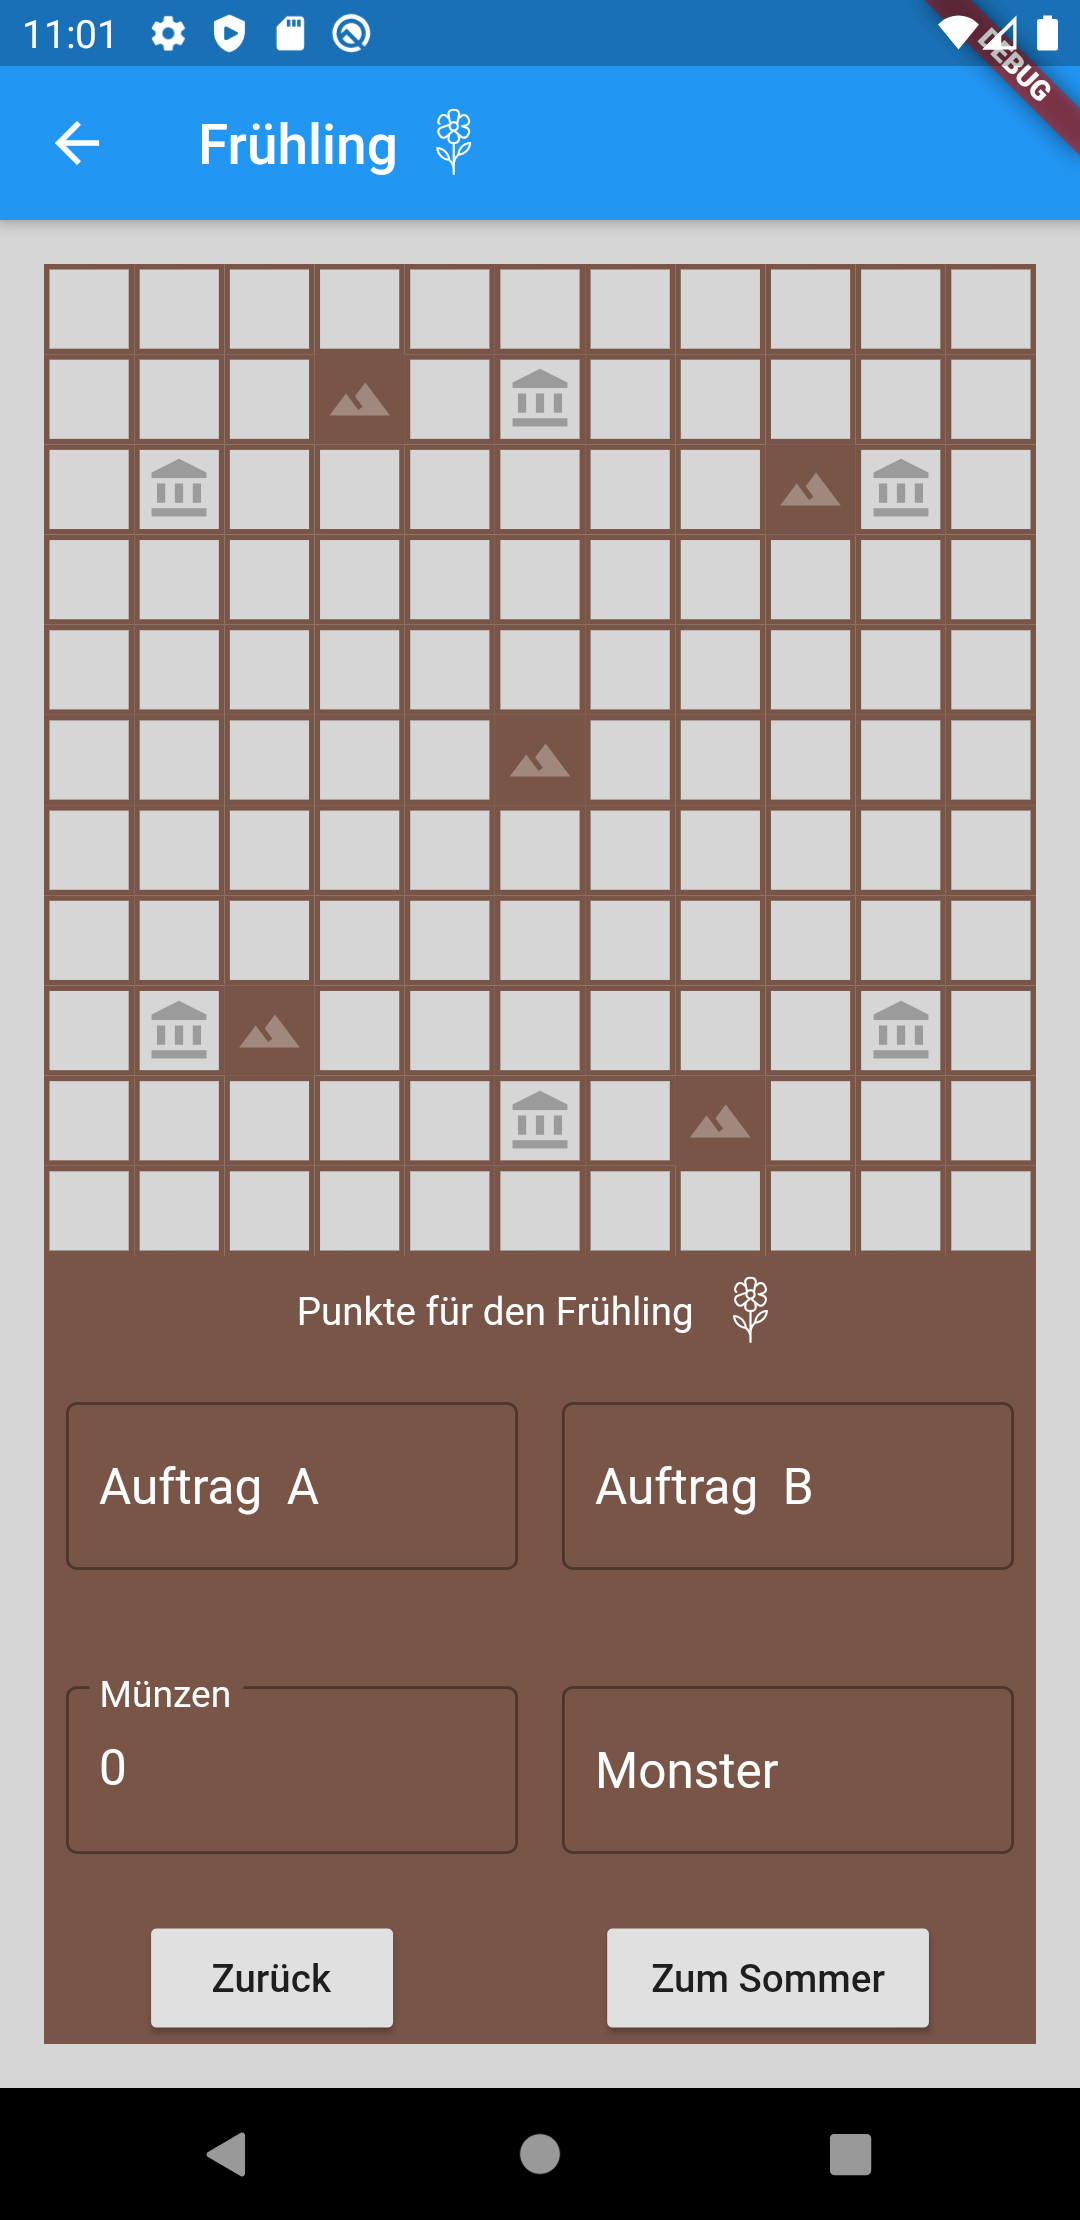
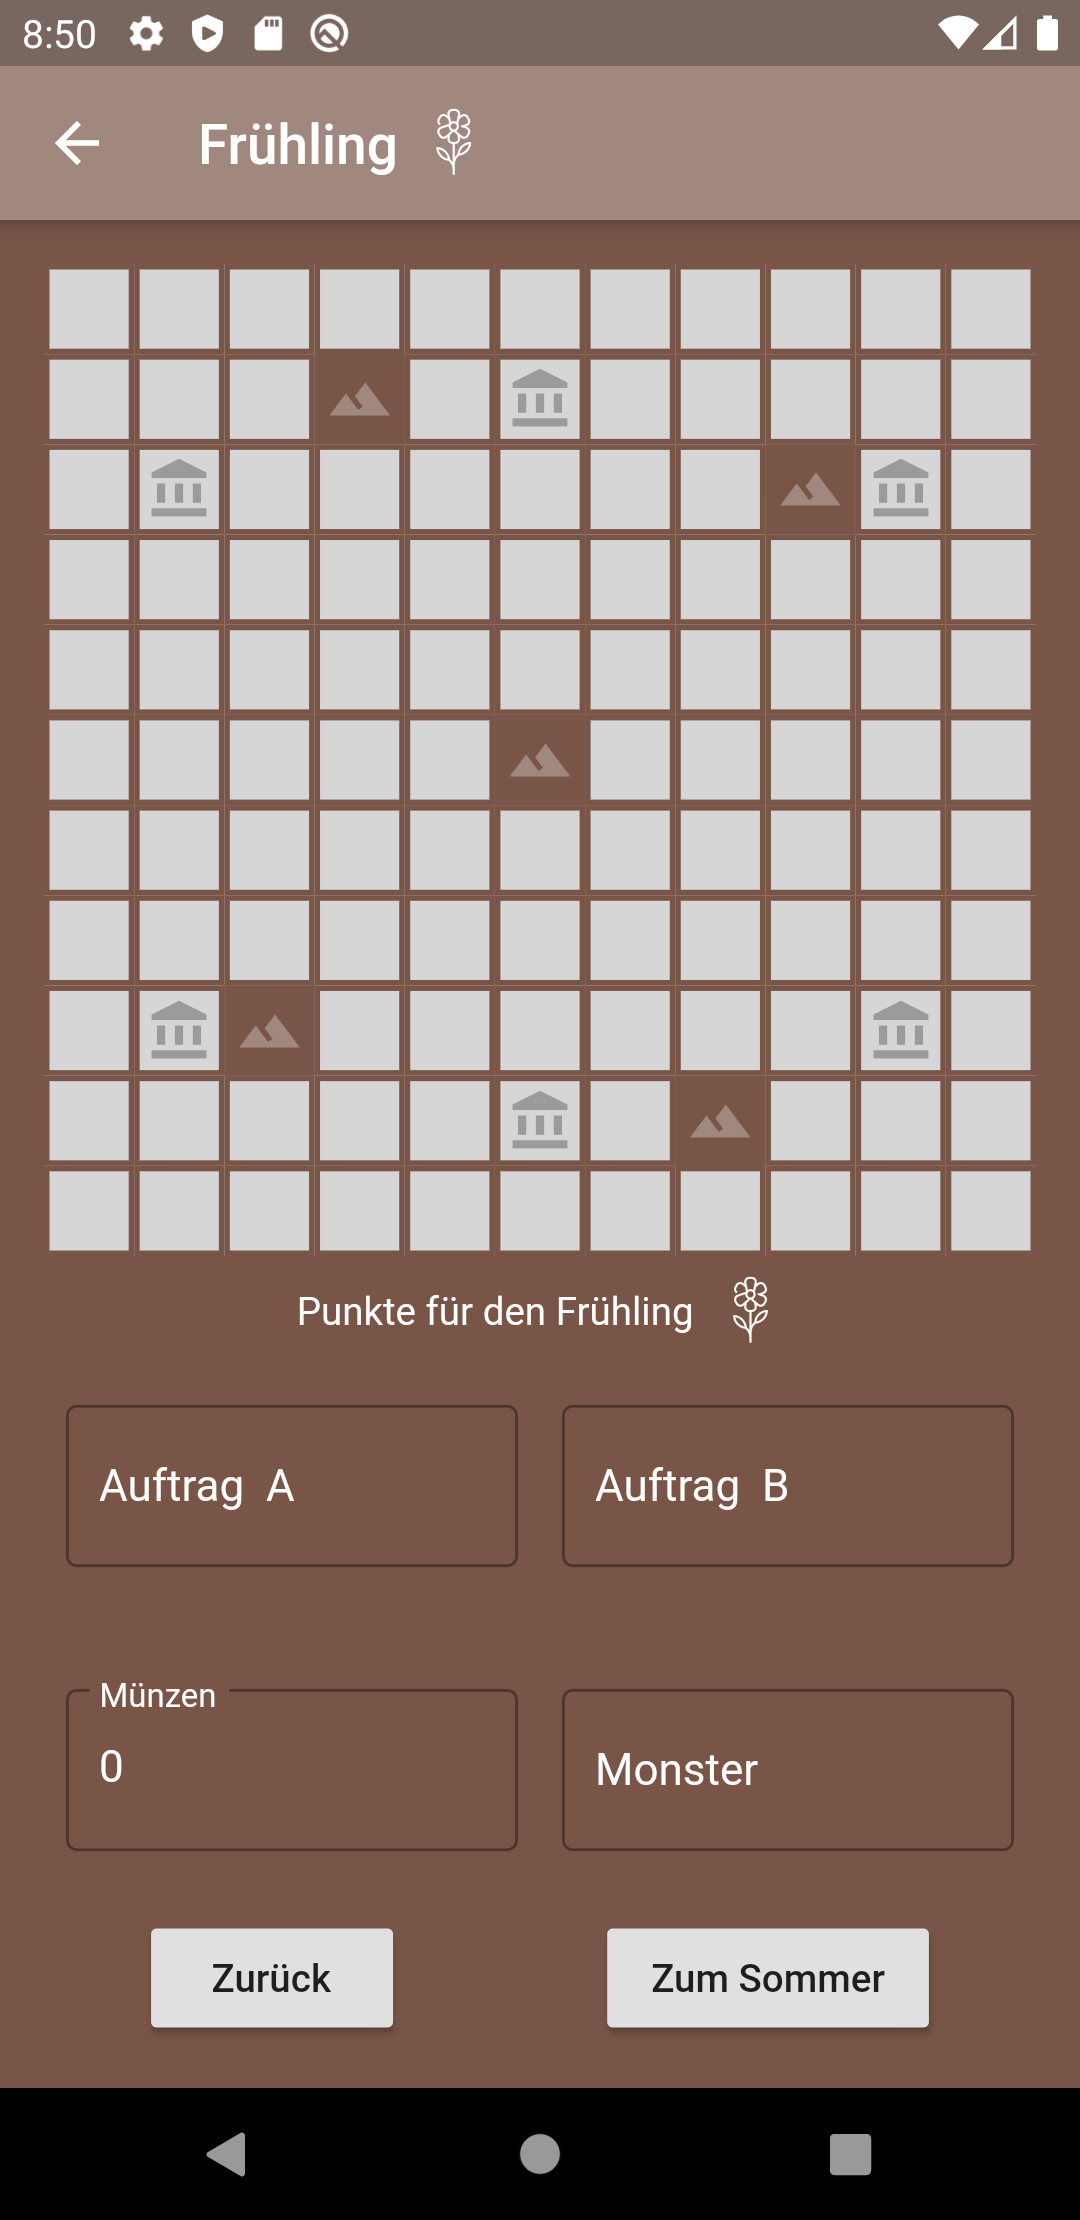
implement sum_up_page.dart finished

diff --git a/lib/gameboard/components/sum_up_row.dart b/lib/gameboard/components/sum_up_row.dart
@@ -1,0 +1,73 @@
+import 'package:flutter/material.dart';
+import 'package:flutter_bloc/flutter_bloc.dart';
+import 'package:kartograph_digital_note/custom_icons/custom_icons_icons.dart';
+import 'package:kartograph_digital_note/gameboard/cubit/cubit.dart';
+import 'package:kartograph_digital_note/gameboard/model/season_model.dart';
+
+class SumUpRow extends StatelessWidget {
+  final int index;
+
+  SumUpRow(this.index);
+
+  final textStyle = TextStyle(color: Colors.white);
+
+  @override
+  Widget build(BuildContext context) {
+    return Container(
+      child: Row(
+        mainAxisSize: MainAxisSize.max,
+        children: [
+          Expanded(
+            child: Column(
+              crossAxisAlignment: CrossAxisAlignment.start,
+              children: [
+                Text(
+                  '${activeCategories[index]['cat1']}: ${context.bloc<SumUpCubit>().state[index].cat1}',
+                  style: textStyle,
+                ),
+                SizedBox(height: 8),
+                Text(
+                  'Münzen: ${context.bloc<SumUpCubit>().state[index].coins}',
+                  style: textStyle,
+                ),
+              ],
+            ),
+          ),
+          Expanded(
+            child: Column(
+              crossAxisAlignment: CrossAxisAlignment.start,
+              children: [
+                Text(
+                  '${activeCategories[index]['cat2']}: ${context.bloc<SumUpCubit>().state[index].cat2}',
+                  style: textStyle,
+                ),
+                SizedBox(height: 8),
+                Text(
+                  'Monster: ${context.bloc<SumUpCubit>().state[index].monster}',
+                  style: textStyle,
+                ),
+              ],
+            ),
+          ),
+          Stack(
+            alignment: AlignmentDirectional.center,
+            children: [
+              Icon(
+                CustomIcons.shield_with_banner,
+                size: 70,
+                color: Colors.white,
+              ),
+              Positioned(top: 8, child: Text('Gesamt', style: textStyle)),
+              Positioned(
+                  top: 30,
+                  child: Text(
+                    '${context.bloc<SumUpCubit>().state[index].total}',
+                    style: TextStyle(fontSize: 16, color: Colors.white),
+                  )),
+            ],
+          ),
+        ],
+      ),
+    );
+  }
+}

diff --git a/lib/gameboard/start_page.dart b/lib/gameboard/start_page.dart
@@ -12,24 +12,17 @@ class StartPage extends StatelessWidget {
 
   @override
   Widget build(BuildContext context) {
-    String version;
-    PackageInfo.fromPlatform().then((PackageInfo packageInfo) {
-      version = '${packageInfo.version}+${packageInfo.buildNumber}';
-    });
-
-    return Padding(
+    return Container(
       padding: const EdgeInsets.symmetric(vertical: 8.0),
       child: Stack(
         alignment: AlignmentDirectional.center,
         children: [
-          Column(
-            mainAxisSize: MainAxisSize.max,
-            mainAxisAlignment: MainAxisAlignment.start,
-            children: [
-              SizedBox(height: 50),
-              Image.asset('assets/navigation.png', width: 150,),
-            ],
-          ),
+          Positioned(
+              top: 50,
+              child: Image.asset(
+                'assets/navigation.png',
+                width: 150,
+              )),
           Column(
             mainAxisSize: MainAxisSize.max,
             mainAxisAlignment: MainAxisAlignment.center,
@@ -37,7 +30,7 @@ class StartPage extends StatelessWidget {
             children: [
               Text(
                 'Kartograph: Digitaler Spielplan',
-                style: Theme.of(context).textTheme.headline5,
+                style: TextStyle(fontSize: 24, color: Colors.white),
               ),
               SizedBox(height: 25.0),
               RaisedButton(
@@ -65,8 +58,14 @@ class StartPage extends StatelessWidget {
             children: [
               FutureBuilder(
                 future: _getPackage(),
-                builder: (context, snapshot) =>
-                    snapshot.hasData ? Text(snapshot.data) : Text(''),
+                builder: (context, snapshot) => snapshot.hasData
+                    ? Text(
+                        snapshot.data,
+                        style: TextStyle(
+                          color: Colors.white,
+                        ),
+                      )
+                    : Text(''),
               ),
             ],
           )

diff --git a/lib/gameboard/view/sum_up_page.dart b/lib/gameboard/view/sum_up_page.dart
@@ -1,15 +1,50 @@
 import 'package:flutter/material.dart';
+import 'package:flutter_bloc/flutter_bloc.dart';
+import 'package:kartograph_digital_note/gameboard/components/sum_up_row.dart';
+import 'package:kartograph_digital_note/gameboard/cubit/cubit.dart';
+import 'package:kartograph_digital_note/gameboard/model/sum_up_util.dart';
 
 class SumUpPage extends StatelessWidget {
   @override
   Widget build(BuildContext context) {
     return Scaffold(
       appBar: AppBar(
+        backgroundColor: Colors.brown[300],
         title: Text('Zusammenfassung'),
+        leading: IconButton(
+          icon: Icon(Icons.arrow_back),
+          onPressed: () {
+            context.bloc<SumUpCubit>().resetState();
+            context.bloc<SeasonsCubit>().resetState();
+            Navigator.pop(context);
+          },
+        ),
       ),
       body: Container(
+        color: Colors.brown,
         padding: EdgeInsets.all(16),
-        child: Text('Details kommen hier hin'),
+        child: Column(
+          children: [
+            ListView.builder(
+              shrinkWrap: true,
+              itemCount: context.bloc<SumUpCubit>().state.length,
+              itemBuilder: (context, index) => SumUpRow(index),
+            ),
+            SizedBox(height: 16),
+            Row(
+              mainAxisAlignment: MainAxisAlignment.end,
+              children: [
+                Padding(
+                  padding: EdgeInsets.only(right: 21),
+                  child: Text(
+                    'Insgesamt: ${sumUpTotalPoints(context.bloc<SumUpCubit>().state)}',
+                    style: TextStyle(fontSize: 24, color: Colors.white),
+                  ),
+                ),
+              ],
+            )
+          ],
+        ),
       ),
     );
   }

diff --git a/lib/gameboard/game_board.dart b/lib/gameboard/game_board.dart
@@ -17,11 +17,12 @@ class GameBoard extends StatelessWidget {
         BlocProvider<Cat1Cubit>(create: (_) => Cat1Cubit()),
         BlocProvider<Cat2Cubit>(create: (_) => Cat2Cubit()),
         BlocProvider<MonsterCubit>(create: (_) => MonsterCubit()),
-        BlocProvider<SumUpCubit>(create: (_) => SumUpCubit()),
         BlocProvider<ActiveColorCubit>(create: (_) => ActiveColorCubit()),
       ],
       child: Scaffold(
+        backgroundColor: Colors.brown,
         appBar: AppBar(
+          backgroundColor: Colors.brown[300],
           title: BlocBuilder<SeasonsCubit, int>(
             builder: (context, state) => Row(
               children: [
@@ -38,12 +39,14 @@ class GameBoard extends StatelessWidget {
               height: MediaQuery.of(context).size.height -
                   Scaffold.of(context).appBarMaxHeight,
               padding: EdgeInsets.all(16.0),
-              color: Colors.grey[350],
-              child:
-                  MediaQuery.of(context).orientation == Orientation.landscape ||
-                          kIsWeb
-                      ? GameBoardLandscape()
-                      : GameBoardPortrait(),
+              child: Container(
+                color: Colors.grey[350],
+                child: MediaQuery.of(context).orientation == Orientation.landscape ||
+                    kIsWeb
+                    ? GameBoardLandscape()
+                    : GameBoardPortrait(),
+              )
+
             ),
           ),
         ),

diff --git a/lib/app.dart b/lib/app.dart
@@ -10,7 +10,8 @@ class App extends StatelessWidget {
       providers: [
         BlocProvider<MapCubit>(
             create: (_) => MapCubit()),
-        BlocProvider<SeasonsCubit>(create: (_) => SeasonsCubit())
+        BlocProvider<SeasonsCubit>(create: (_) => SeasonsCubit()),
+        BlocProvider<SumUpCubit>(create: (_) => SumUpCubit()),
       ],
       child: MaterialApp(
         debugShowCheckedModeBanner: false,
@@ -18,6 +19,7 @@ class App extends StatelessWidget {
           visualDensity: VisualDensity.adaptivePlatformDensity,
         ),
         home: Scaffold(
+          backgroundColor: Colors.brown[300],
           body: Center(
             child: StartPage(),
           ),

diff --git a/lib/gameboard/view/points_area.dart b/lib/gameboard/view/points_area.dart
@@ -83,7 +83,7 @@ class PointsArea extends StatelessWidget {
                                               child: Text('Details'),
                                               onPressed: () {
                                                 Navigator.of(context).pop();
-                                                Navigator.push(
+                                                Navigator.pushReplacement(
                                                   context,
                                                   MaterialPageRoute(
                                                     builder: (context) =>

diff --git a/lib/custom_icons/custom_icons_icons.dart b/lib/custom_icons/custom_icons_icons.dart
@@ -24,5 +24,6 @@ class CustomIcons {
   static const IconData fat_round_monster = IconData(0xe800, fontFamily: _kFontFam, fontPackage: _kFontPkg);
   static const IconData coin = IconData(0xe801, fontFamily: _kFontFam, fontPackage: _kFontPkg);
   static const IconData flower = IconData(0xe802, fontFamily: _kFontFam, fontPackage: _kFontPkg);
+  static const IconData shield_with_banner = IconData(0xe804, fontFamily: _kFontFam, fontPackage: _kFontPkg);
   static const IconData leaf_fall = IconData(0xe806, fontFamily: _kFontFam, fontPackage: _kFontPkg);
 }

diff --git a/lib/gameboard/cubit/sum_up_cubit.dart b/lib/gameboard/cubit/sum_up_cubit.dart
@@ -2,11 +2,13 @@ import 'package:bloc/bloc.dart';
 import 'package:kartograph_digital_note/gameboard/model/summary_model.dart';
 
 class SumUpCubit extends Cubit<List<SummaryModel>> {
-  SumUpCubit(): super(new List<SummaryModel>());
+  SumUpCubit() : super(new List<SummaryModel>());
 
   void sumUp(SummaryModel summaryModel) {
-    state.add(summaryModel);
-    emit(state);
+    if (state.length < 4) {
+      state.add(summaryModel);
+      emit(state);
+    }
   }
 
   void resetState() => emit(new List<SummaryModel>());

diff --git a/lib/gameboard/cubit/seasons_cubit.dart b/lib/gameboard/cubit/seasons_cubit.dart
@@ -1,9 +1,13 @@
 import 'package:bloc/bloc.dart';
 
 class SeasonsCubit extends Cubit<int> {
-  SeasonsCubit(): super(0);
+  SeasonsCubit() : super(0);
 
-  void nextSeason() => emit(state + 1);
+  void nextSeason() {
+    if (state < 3) {
+      emit(state + 1);
+    }
+  }
 
   void resetState() => emit(0);
 }
